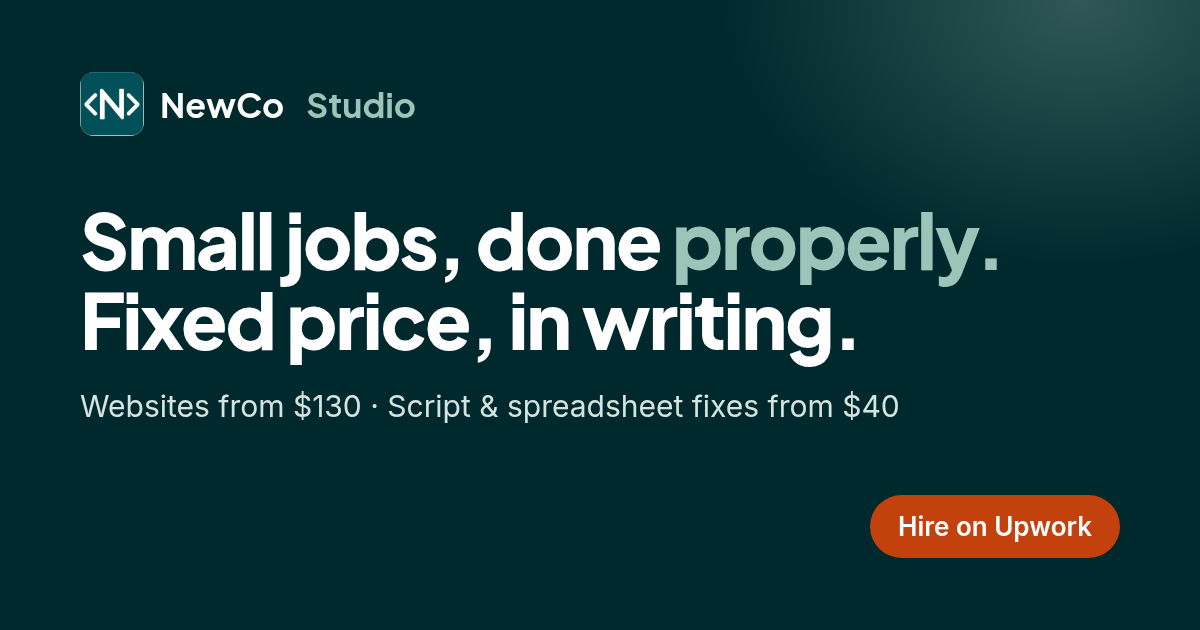
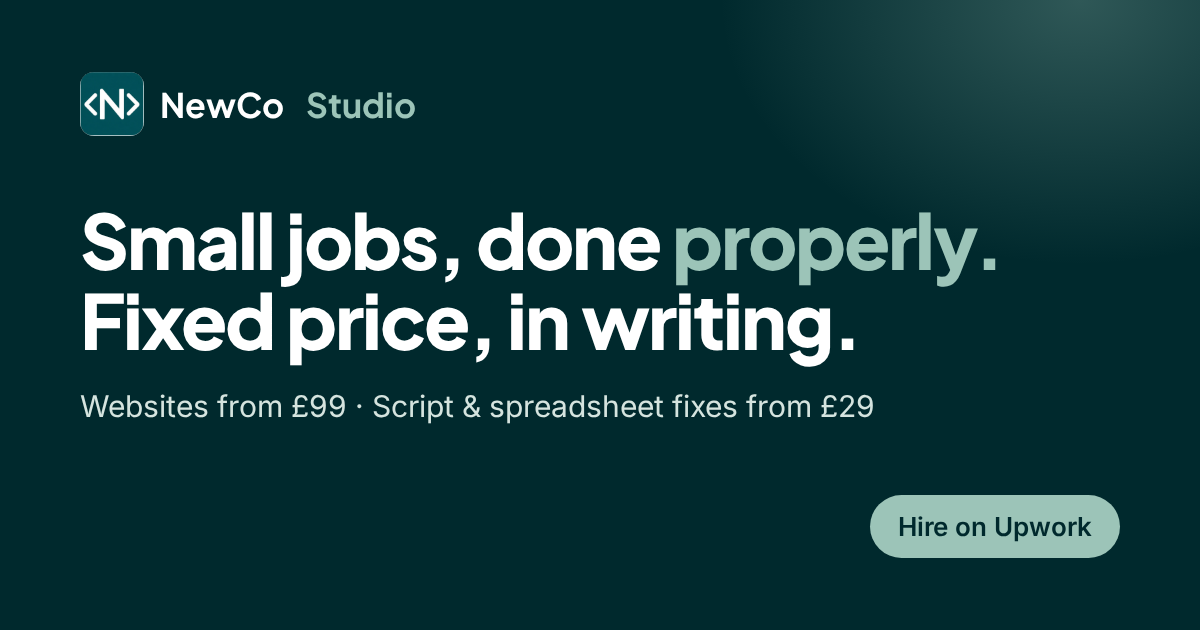
GBP-only prices: strip all $ / USD from copy, chat, meta and OG image
Preview remains noindex,nofollow.

diff --git a/index.html b/index.html
@@ -4,7 +4,7 @@
 <meta charset="utf-8">
 <meta name="viewport" content="width=device-width,initial-scale=1">
 <title>NewCo Studio · Fixed-price websites, scripts &amp; spreadsheet fixes</title>
-<meta name="description" content="A small UK web studio. Fast, accessible websites from £99 (~$130) and Python, Excel and Google Sheets fixes from £29 (~$40). Fixed price agreed in writing before we start. Hire us on Upwork.">
+<meta name="description" content="A small UK web studio. Fast, accessible websites from £99 and Python, Excel and Google Sheets fixes from £29. Fixed price agreed in writing before we start. Hire us on Upwork.">
 <link rel="canonical" href="https://studio.newcopacks.co.uk/">
 <meta name="robots" content="noindex,nofollow">
 <meta name="theme-color" content="#00292D">
@@ -27,7 +27,7 @@
 <meta name="twitter:card" content="summary_large_image">
 <script type="application/ld+json">
 {"@context":"https://schema.org","@graph":[
-{"@type":"ProfessionalService","@id":"https://studio.newcopacks.co.uk/#studio","name":"NewCo Studio","url":"https://studio.newcopacks.co.uk/","logo":"https://studio.newcopacks.co.uk/assets/icon-512.png","image":"https://studio.newcopacks.co.uk/assets/og.png","description":"Small UK web studio building fixed-price websites, landing pages, Python automations and Excel/Google Sheets fixes.","address":{"@type":"PostalAddress","addressRegion":"Oxfordshire","addressCountry":"GB"},"areaServed":["GB","Worldwide"],"priceRange":"$40–$599","sameAs":["https://www.upwork.com/freelancers/~014d64a617a26f8854","https://github.com/bully4486-maker"],
+{"@type":"ProfessionalService","@id":"https://studio.newcopacks.co.uk/#studio","name":"NewCo Studio","url":"https://studio.newcopacks.co.uk/","logo":"https://studio.newcopacks.co.uk/assets/icon-512.png","image":"https://studio.newcopacks.co.uk/assets/og.png","description":"Small UK web studio building fixed-price websites, landing pages, Python automations and Excel/Google Sheets fixes.","address":{"@type":"PostalAddress","addressRegion":"Oxfordshire","addressCountry":"GB"},"areaServed":["GB","Worldwide"],"priceRange":"£29–£249","sameAs":["https://www.upwork.com/freelancers/~014d64a617a26f8854","https://github.com/bully4486-maker"],
 "makesOffer":[
 {"@type":"Offer","name":"One-page website","price":"99","priceCurrency":"GBP","url":"https://www.upwork.com/freelancers/~014d64a617a26f8854","itemOffered":{"@type":"Service","name":"Responsive one-page website"}},
 {"@type":"Offer","name":"Multi-page website","price":"249","priceCurrency":"GBP","url":"https://www.upwork.com/freelancers/~014d64a617a26f8854","itemOffered":{"@type":"Service","name":"Responsive multi-page website"}},
@@ -69,7 +69,7 @@
 <div class="qc-row"><span>Basic SEO &amp; share image</span><span>Included</span></div>
 <div class="qc-row"><span>Revisions</span><span>Agreed up front</span></div>
 <div class="qc-row"><span>Hand-over of all files</span><span>Included</span></div>
-<div class="qc-total"><span>£99 <small>total, fixed (~$130)</small></span></div>
+<div class="qc-total"><span>£99 <small>total, fixed</small></span></div>
 <p class="qc-note">Illustration of our starter package. Your quote is written to your brief.</p>
 </div>
 </div></section>
@@ -96,21 +96,21 @@
 
 <section class="sec sec-sand" id="pricing" aria-labelledby="price-h"><div class="wrap">
 <div class="sec-head"><span class="eyebrow">Pricing</span><h2 id="price-h">Fixed prices. Totals, not teasers.</h2>
-<p class="lead">Starting prices for our most common jobs. Shown in US dollars to match our Upwork listings. They're totals, and your written quote fixes the final figure.</p></div>
+<p class="lead">Starting prices for our most common jobs. They're totals in pounds sterling, and your written quote fixes the final figure.</p></div>
 <div class="prices">
-<div class="price"><h3>Spreadsheet or script fix</h3><p class="from">From</p><div class="amt">£29 <small class="usd">~$40</small></div>
+<div class="price"><h3>Spreadsheet or script fix</h3><p class="from">From</p><div class="amt">£29</div>
 <ul><li>Excel or Google Sheets formulas, lookups, tidy-ups</li><li>Python script bugs and small automations</li><li>HTML/CSS/JS fixes on an existing site</li><li>Plain-English note of what changed</li></ul>
 <a class="btn btn-ghost" href="#quote">Get a fixed quote</a></div>
-<div class="price feat"><span class="badge">Most popular</span><h3>One-page website</h3><p class="from">From</p><div class="amt">£99 <small class="usd">~$130</small></div>
+<div class="price feat"><span class="badge">Most popular</span><h3>One-page website</h3><p class="from">From</p><div class="amt">£99</div>
 <ul><li>Responsive, mobile-first single page or landing page</li><li>Your services, prices and contact links</li><li>Fast-loading and accessible build</li><li>Basic SEO, favicon and share image</li></ul>
 <a class="btn btn-cta" href="#quote">Request a quote</a></div>
-<div class="price"><h3>Multi-page website</h3><p class="from">From</p><div class="amt">£249 <small class="usd">~$330</small></div>
-<ul><li>Home plus inner pages for services, about and contact</li><li>Consistent layout and navigation</li><li>Fast, accessible, mobile-first</li><li>Extra pages from £41 (~$55) each</li></ul>
+<div class="price"><h3>Multi-page website</h3><p class="from">From</p><div class="amt">£249</div>
+<ul><li>Home plus inner pages for services, about and contact</li><li>Consistent layout and navigation</li><li>Fast, accessible, mobile-first</li><li>Extra pages from £41 each</li></ul>
 <a class="btn btn-ghost" href="#quote">Get a fixed quote</a></div>
 </div>
 <div class="extras">
 <div class="extra"><b>Email templates</b><span>Responsive HTML emails that hold up in Outlook and Gmail. Quoted from your brief.</span></div>
-<div class="extra"><b>Faster delivery</b><span>Need it a day sooner? Add-on from £26 (~$35).</span></div>
+<div class="extra"><b>Faster delivery</b><span>Need it a day sooner? Add-on from £26.</span></div>
 <div class="extra"><b>Not included</b><span>Hosting and domains. They stay in your name; we help you set them up.</span></div>
 </div>
 <p class="fineprint">Bigger or unusual job? Send the brief anyway. If it isn't a good fit, we'll say so in writing rather than guess.</p>
@@ -150,7 +150,7 @@
 <input type="hidden" name="_subject" value="New quote request · NewCo Studio site">
 <input type="hidden" name="_template" value="table">
 <input type="hidden" name="_captcha" value="false">
-<input type="hidden" name="_next" value="https://studio.newcopacks.co.uk/thanks.html">
+<input type="hidden" name="_next" value="https://bully4486-maker.github.io/newco-studio-site/thanks.html">
 <div class="hp" aria-hidden="true"><label for="f-hp">Leave this empty</label><input id="f-hp" type="text" name="_honey" tabindex="-1" autocomplete="off"></div>
 <div class="row2"><div class="fld"><label for="f-name">Your name</label><input id="f-name" name="name" type="text" autocomplete="name" required></div>
 <div class="fld"><label for="f-email">Email</label><input id="f-email" name="email" type="email" autocomplete="email" required></div></div>

diff --git a/404.html b/404.html
@@ -2,7 +2,7 @@
 <html lang="en-GB">
 <head>
 <meta charset="utf-8">
-<base href="/newco-studio-site/">
+<base href="/">
 <meta name="viewport" content="width=device-width,initial-scale=1">
 <title>Page not found · NewCo Studio</title>
 <meta name="description" content="Page not found.">
@@ -20,7 +20,7 @@
 <meta property="og:type" content="website">
 <meta property="og:site_name" content="NewCo Studio">
 <meta property="og:title" content="NewCo Studio · Fixed-price websites, scripts &amp; spreadsheet fixes">
-<meta property="og:description" content="Small, well-defined jobs done properly. Fixed price agreed in writing. Websites from $130, fixes from $40.">
+<meta property="og:description" content="Small, well-defined jobs done properly. Fixed price agreed in writing. Websites from £99, fixes from £29.">
 <meta property="og:url" content="https://studio.newcopacks.co.uk/404.html">
 <meta property="og:image" content="https://studio.newcopacks.co.uk/assets/og.png">
 <meta property="og:image:width" content="1200"><meta property="og:image:height" content="630">
@@ -38,7 +38,7 @@
 <a class="btn btn-cta" href="./#quote">Request a quote</a>
 </nav></div></header>
 
-<main id="main" class="prose"><span class="eyebrow">Error 404</span><h1>That page has wandered off.</h1><p class="lead">The link may be old or mistyped. Everything we do is on the home page.</p><p style="margin-top:28px"><a class="btn btn-cta" href="./">Back to the home page</a></p></main>
+<main id="main" class="prose"><span class="eyebrow">Error 404</span><h1>That page has wandered off.</h1><p class="lead">The link may be old or mistyped. Everything we do is on the home page.</p><p style="margin-top:28px"><a class="btn btn-cta" href="/">Back to the home page</a></p></main>
 <footer class="ftr"><div class="wrap">
 <div><a class="brand" href="./" aria-label="NewCo Studio home"><img src="assets/mark.png" width="34" height="34" alt=""><span>NewCo <b>Studio</b></span></a><p style="margin-top:14px;max-width:30em">Small, fixed-price web and automation jobs for small businesses. Based in Oxfordshire, UK. Working worldwide through Upwork.</p></div>
 <div><h3>Studio</h3><ul><li><a href="./#work">Live demos</a></li><li><a href="./#pricing">Pricing</a></li><li><a href="./#process">How it works</a></li><li><a href="./#faq">FAQ</a></li></ul></div>

diff --git a/assets/site.js b/assets/site.js
@@ -2,8 +2,8 @@
 (function(){var c=document.getElementById('chat');if(!c)return;var fab=c.querySelector('.chat-fab'),p=c.querySelector('.chat-panel'),log=c.querySelector('.chat-log'),opts=c.querySelector('.chat-opts'),started=false;
 var Q='<a href="#quote" data-close>Open the quote form</a>',UP='https://www.upwork.com/freelancers/~014d64a617a26f8854';
 var A={
-prices:['How much does it cost?','Fixed prices, agreed in writing first. One-page website or landing page from £99 (~$130). Multi-page website from £249 (~$330) (extra pages from £41 (~$55)). Spreadsheet, script or website fixes from £29 (~$40). Those are totals. '+Q+' for an exact figure.'],
-time:['How long does it take?','Small fixes: often a day or two. One-page site: usually a few days. Multi-page: a little longer. Your quote gives a firm delivery date, and a faster option is available from £26 (~$35).'],
+prices:['How much does it cost?','Fixed prices, agreed in writing first. One-page website or landing page from £99. Multi-page website from £249 (extra pages from £41). Spreadsheet, script or website fixes from £29. Those are totals. '+Q+' for an exact figure.'],
+time:['How long does it take?','Small fixes: often a day or two. One-page site: usually a few days. Multi-page: a little longer. Your quote gives a firm delivery date, and a faster option is available from £26.'],
 process:['How does it work?','1. Send a short written brief. 2. Get a fixed quote within 24 hours. 3. We build and send a preview. 4. Agreed revisions, then you get every file. '+Q+'.'],
 calls:['Can we have a call?','We work in writing only. It keeps a clear record of what was agreed, you reply when it suits you, and small jobs scope faster that way. Every question gets a written answer, usually the same day.'],
 what:['What do you build?','Websites and landing pages, Python scripts and automations, Excel and Google Sheets work, HTML/CSS/JS bug fixes and HTML email templates. Have a look at the <a href="#work" data-close>live demos</a>.'],

diff --git a/privacy.html b/privacy.html
@@ -18,7 +18,7 @@
 <meta property="og:type" content="website">
 <meta property="og:site_name" content="NewCo Studio">
 <meta property="og:title" content="NewCo Studio · Fixed-price websites, scripts &amp; spreadsheet fixes">
-<meta property="og:description" content="Small, well-defined jobs done properly. Fixed price agreed in writing. Websites from $130, fixes from $40.">
+<meta property="og:description" content="Small, well-defined jobs done properly. Fixed price agreed in writing. Websites from £99, fixes from £29.">
 <meta property="og:url" content="https://studio.newcopacks.co.uk/privacy.html">
 <meta property="og:image" content="https://studio.newcopacks.co.uk/assets/og.png">
 <meta property="og:image:width" content="1200"><meta property="og:image:height" content="630">

diff --git a/thanks.html b/thanks.html
@@ -19,7 +19,7 @@
 <meta property="og:type" content="website">
 <meta property="og:site_name" content="NewCo Studio">
 <meta property="og:title" content="NewCo Studio · Fixed-price websites, scripts &amp; spreadsheet fixes">
-<meta property="og:description" content="Small, well-defined jobs done properly. Fixed price agreed in writing. Websites from $130, fixes from $40.">
+<meta property="og:description" content="Small, well-defined jobs done properly. Fixed price agreed in writing. Websites from £99, fixes from £29.">
 <meta property="og:url" content="https://studio.newcopacks.co.uk/thanks.html">
 <meta property="og:image" content="https://studio.newcopacks.co.uk/assets/og.png">
 <meta property="og:image:width" content="1200"><meta property="og:image:height" content="630">

diff --git a/assets/site.css b/assets/site.css
@@ -184,6 +184,6 @@ h2{text-wrap:balance}.hero h1{max-width:12.5em}
 .hero h1{font-size:clamp(2.4rem,5vw,3.8rem);max-width:none}
 @media (min-width:901px){.hero .wrap{grid-template-columns:1.35fr .8fr;gap:40px}}
 
-.quote-card{transform:none!important}.usd{font-size:.45em;font-weight:500;opacity:.75;margin-left:.25em}
+.quote-card{transform:none!important}
 footer{padding-bottom:96px!important}
 .nav .btn-cta{color:#00292D}.btn-cta{border:1.5px solid #02505A}.hero .btn-cta,.final .btn-cta,.price.feat .btn-cta{border-color:var(--cta)}

diff --git a/README.md b/README.md
@@ -1,2 +1,1 @@
-# NewCo Studio site (preview)
 Preview build; production source lives in the studio workspace. noindex until go-live.
